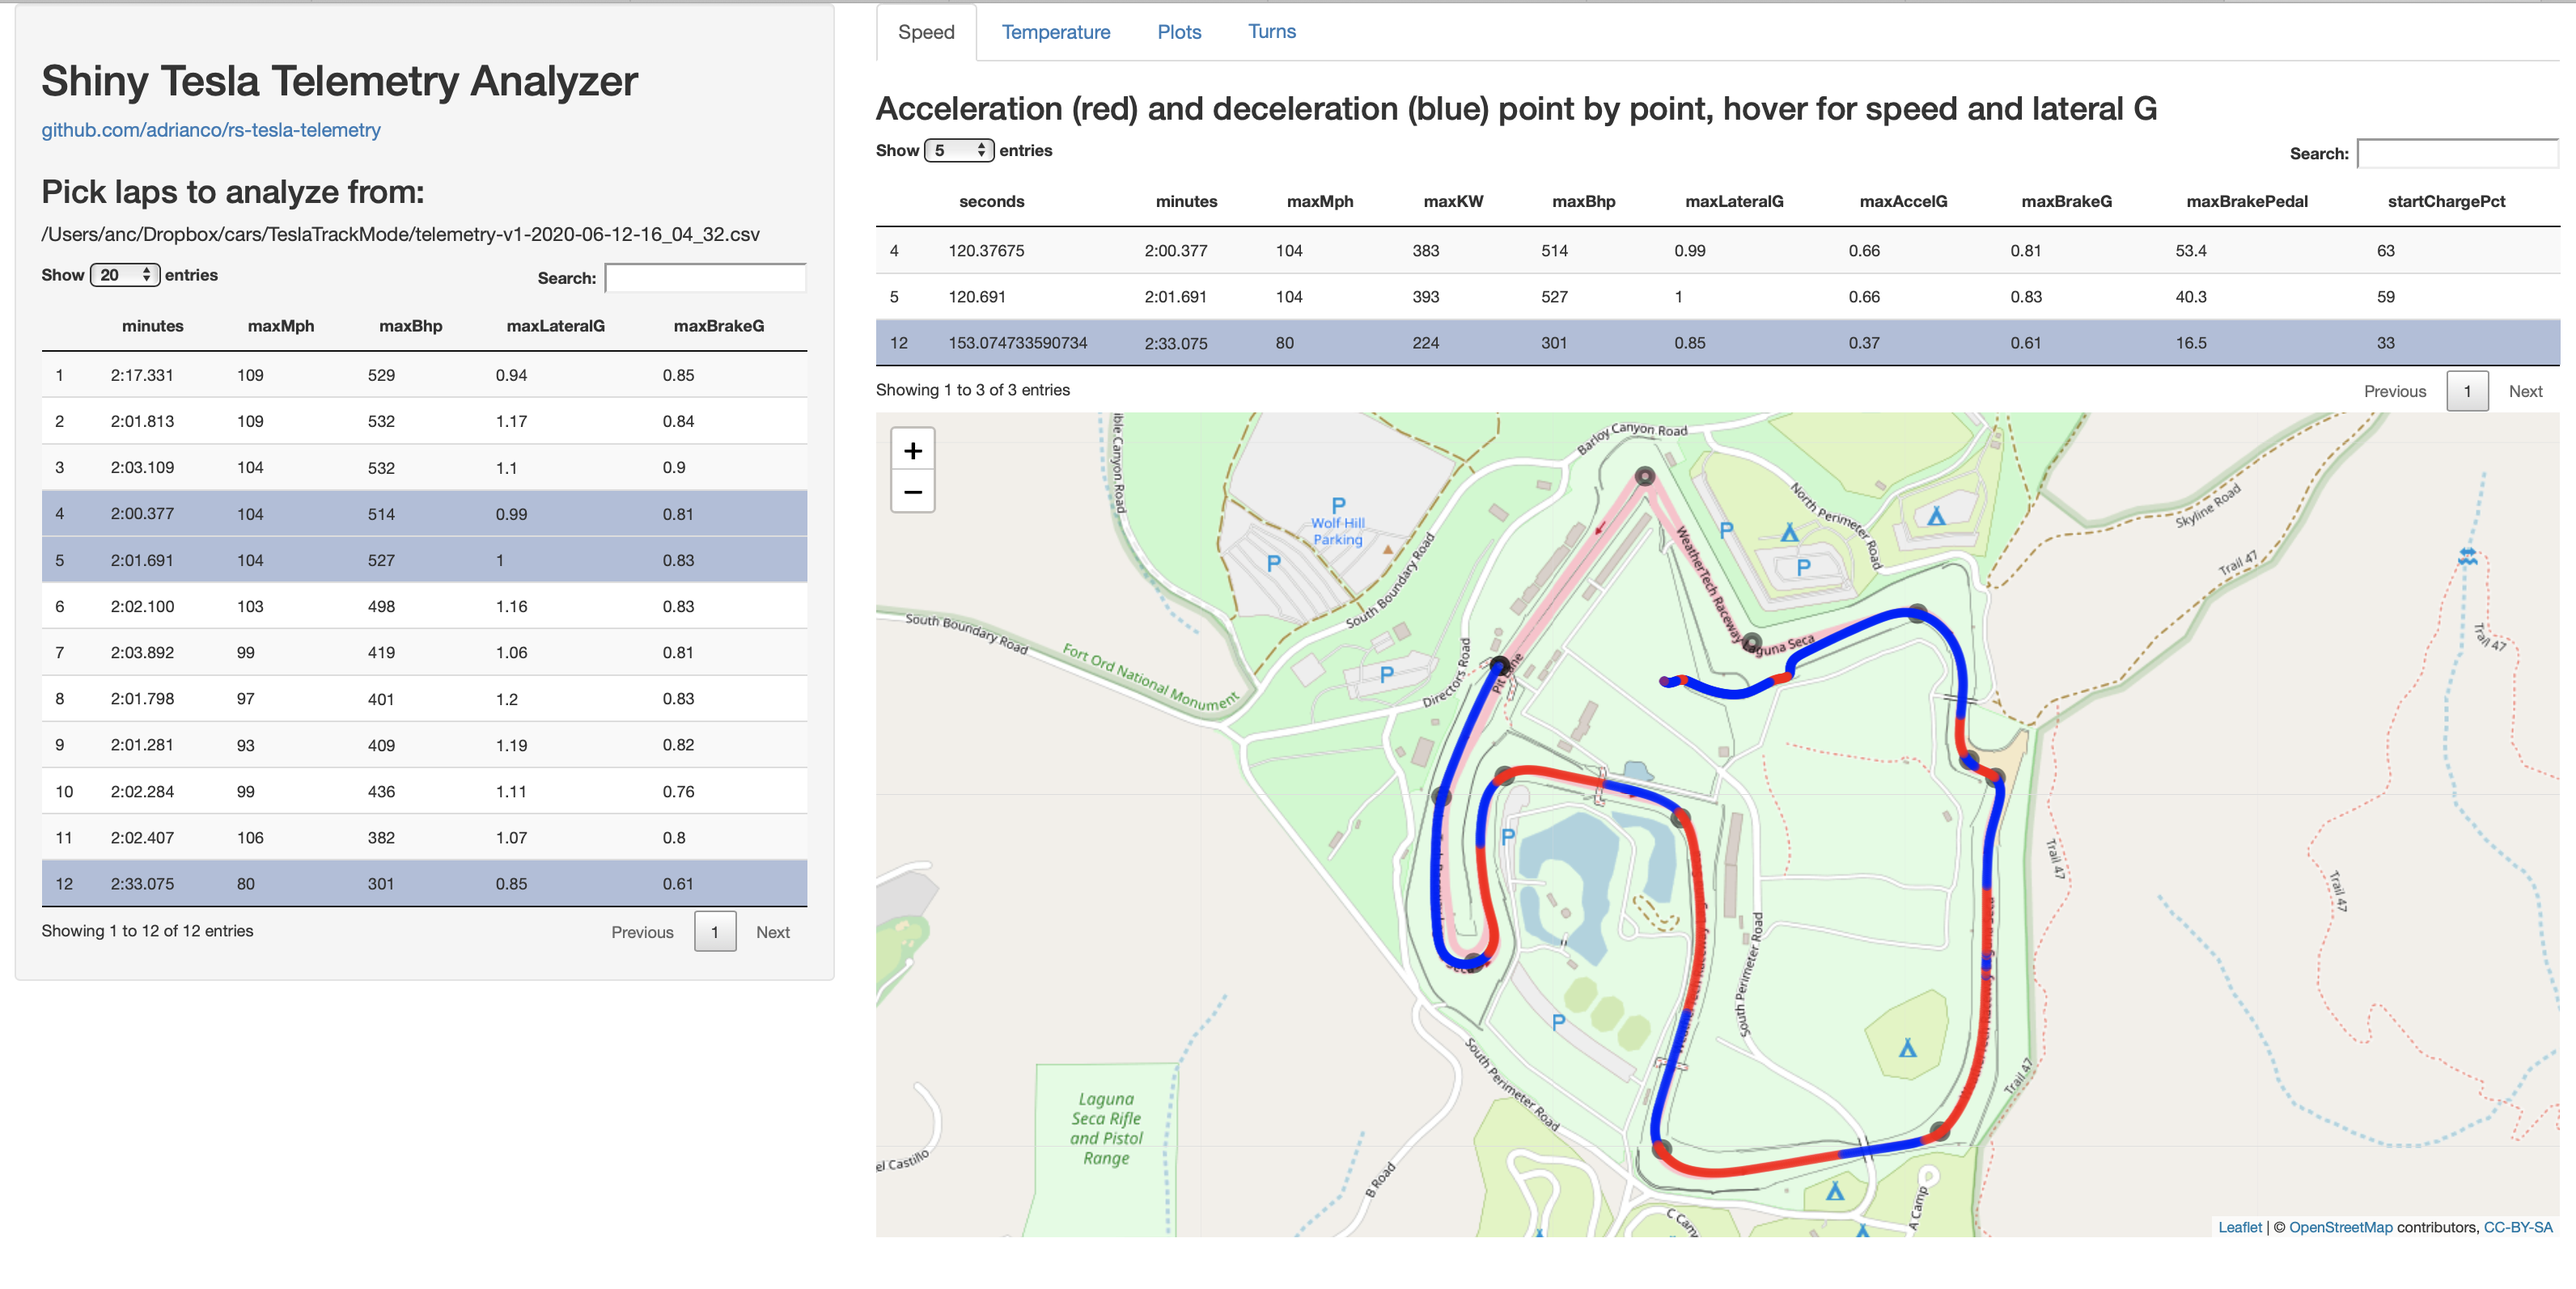
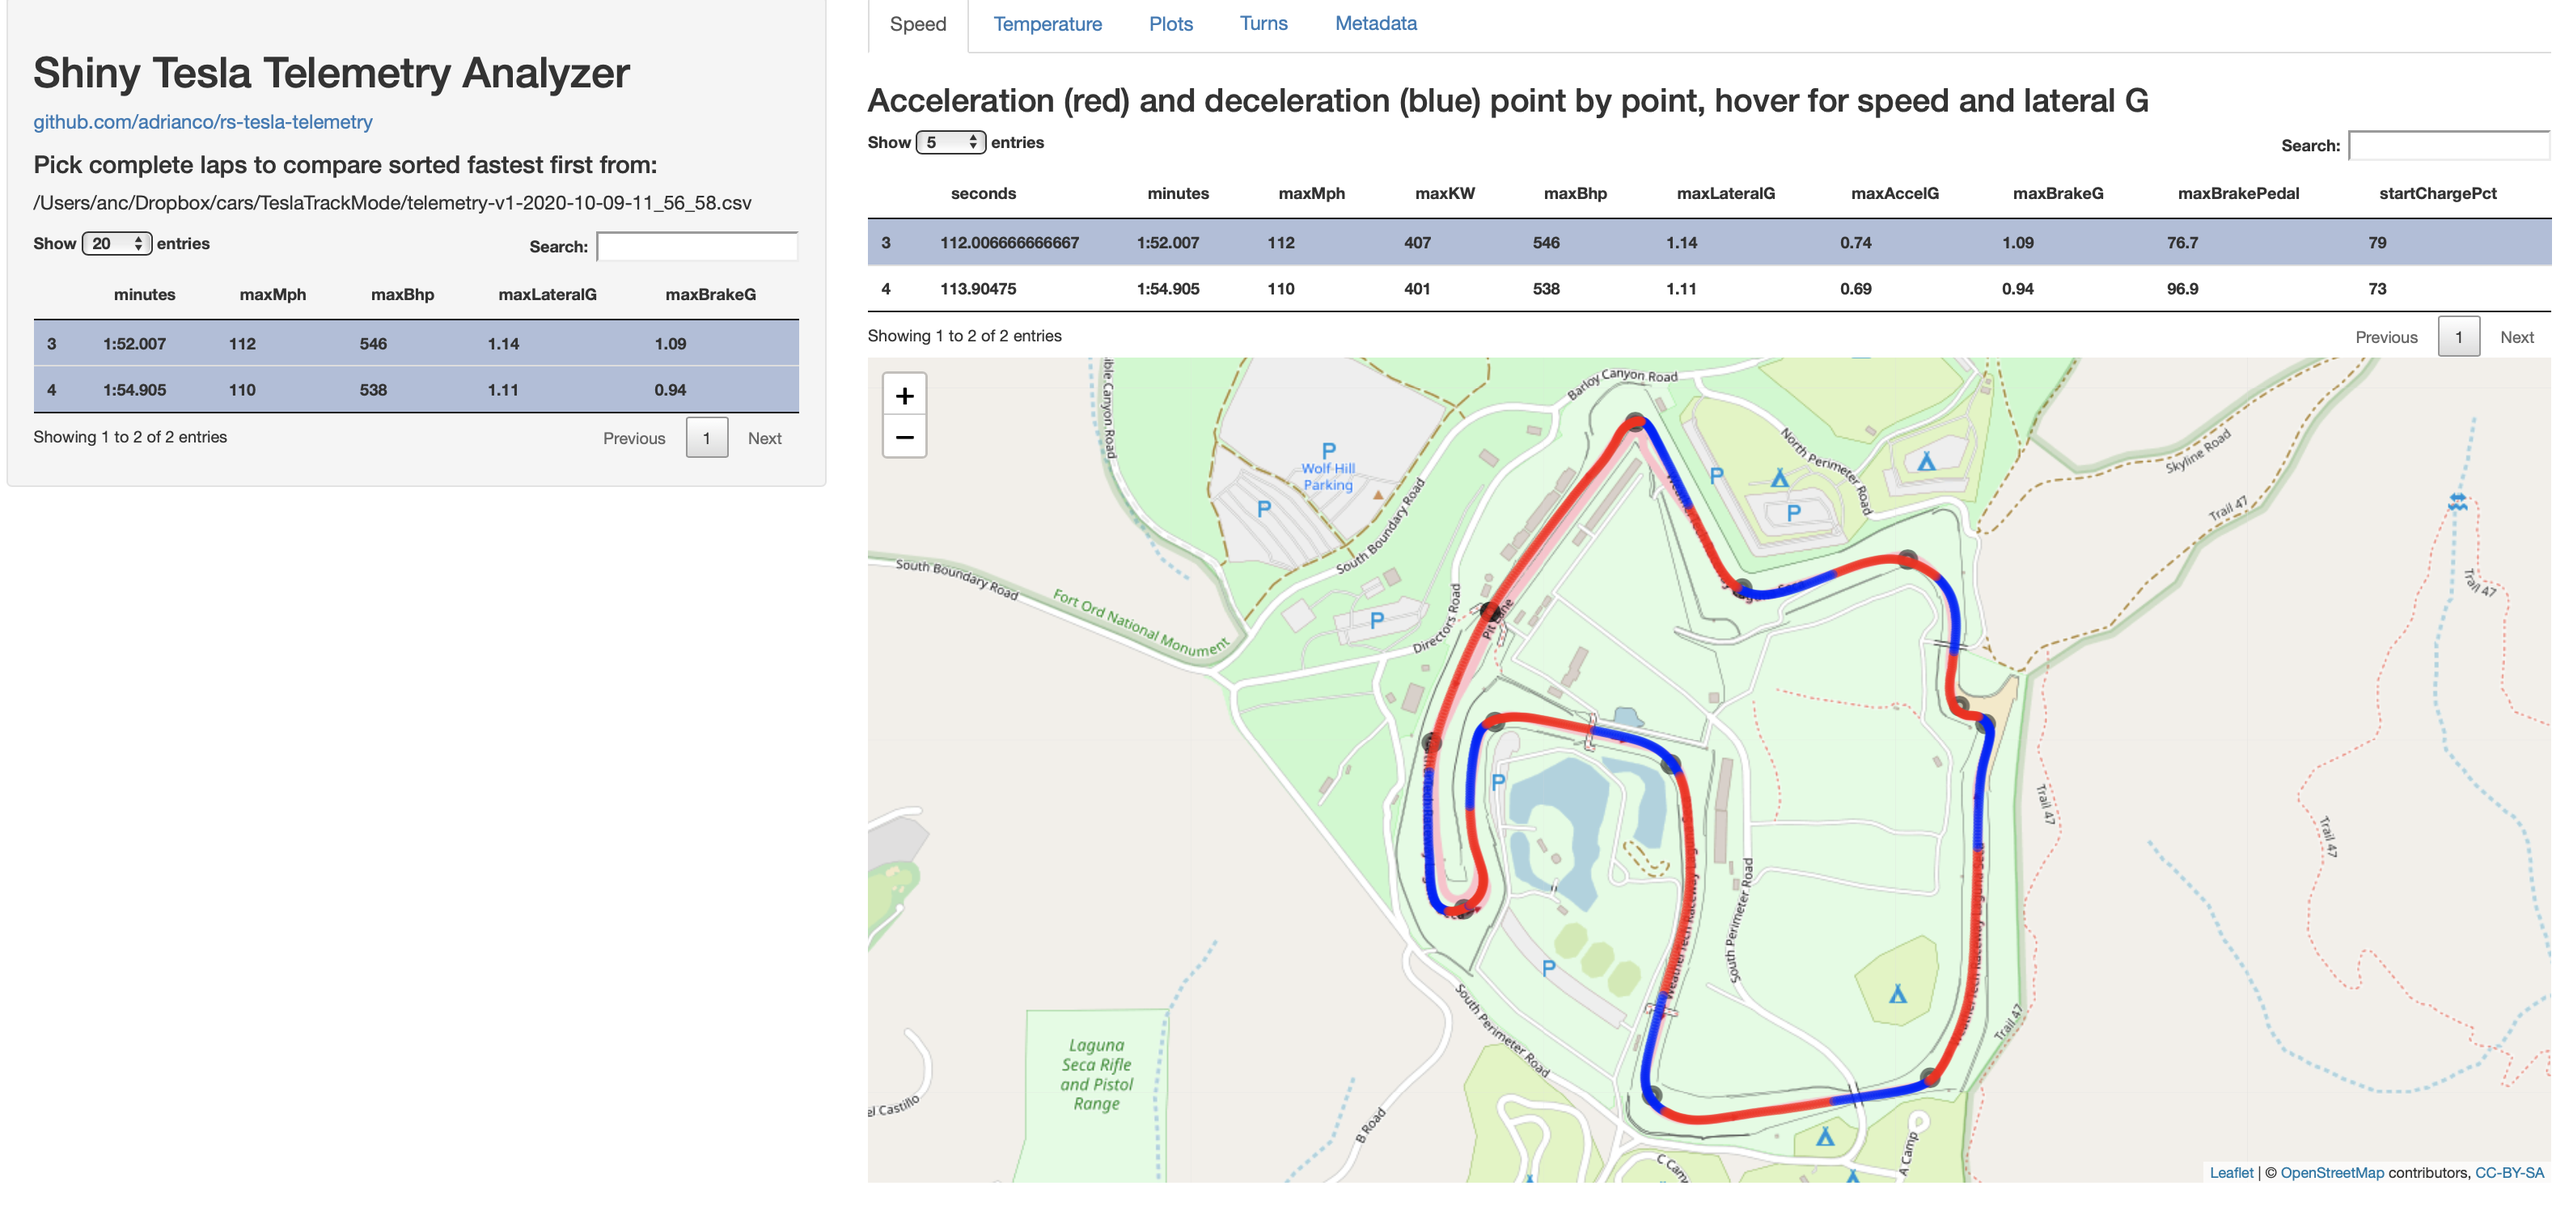
Added plots and updated description

diff --git a/README.md b/README.md
@@ -54,8 +54,13 @@ The app also persists a list of laps, with the structure shown above, that have 
 [13] "maxFrontInverter" "maxRearInverter"  "maxBatteryTemp"  
  ```
  
- The code drops lap 0 (driving in the hot pit), splits the rest of the data into laps, and calls plap on each to generate a row for each lap in the data frame. This is summarized in two tabs, one for speed and the other for temperature, and allows you to pick a lap to show on the map. More tabs coming...
+ The code drops lap 0 (driving in the hot pit), splits the rest of the data into laps, filters out laps that don't start and end in the same place and cover the whole circuit, and calls plap on each to generate a row for each lap in the data frame, which is then sorted to have the fastest lap first. This is summarized in two tabs, one for speed and the other for temperature, and allows you to pick a lap to show on the map, and a plotting tab that lets you choose multiple laps and add more lines to the plot.
  
  ![Screenshot](rs-tesla-telemetry-screenshot.png)
  
  ![Screenshot](rs-tesla-telemetry-screenshot-temp.png)
+ 
+ ![Screenshot](rs-tesla-telemetry-screenshot-temp2.png)
+ 
+ ![Screenshot](rs-tesla-telemetry-screenshot-plots.png)
+ 
